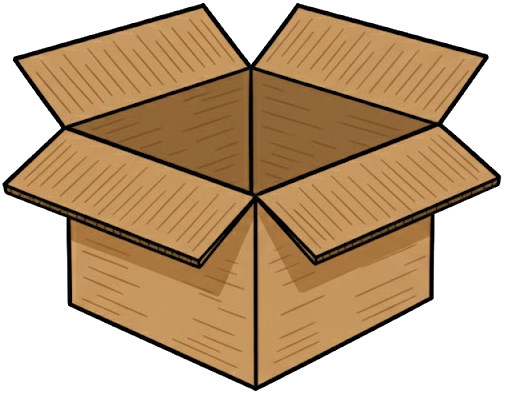
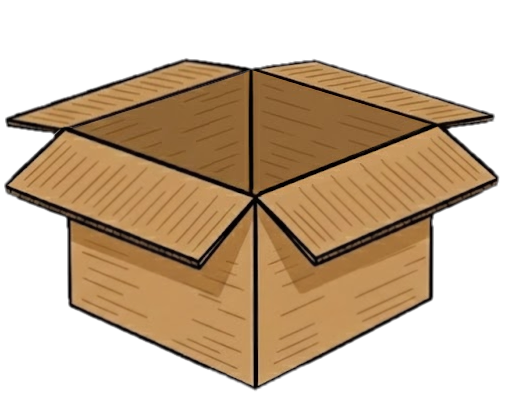
Box texture changed and new credits button

diff --git a/Phaser/src/scenes/Start.js b/Phaser/src/scenes/Start.js
@@ -72,30 +72,33 @@ export class Start extends BaseScene {
         else this.background = this.add.image(width / 2, height / 2, 'background').setDisplaySize(width, height);
 
 
-        const box = this.add.image(400, 950, 'BoxOpen').setOrigin(0.5).setScale(1.5);
+        const box = this.add.image(300, 950, 'BoxOpen').setOrigin(0.5).setScale(1.5).setRotation(0.2);
+
+        // a constant wobbling effect as if the box was floating on space
+        this.tweens.add({
+            targets: box,
+            y: 930,
+            duration: 4000,
+            ease: 'Sine.easeInOut',
+            yoyo: true,
+            loop: -1
+        });
         const kitty = this.add.image(500, 450, 'StartMenuKronos').setOrigin(0.5).setScale(0.9);
 
         this.tweens.add({
             targets: kitty,
-            y: 620,
-            duration: 3000,
+            y: 520,
+            duration: 5000,
             ease: 'Sine.easeInOut',
             yoyo: true,
             loop: -1
         });
 
         const logo = this.add.image(1300, 150, 'logo').setOrigin(0.5);
-        const playButton = this.add.sprite(1150, 900, 'playButton', 0).setInteractive().setOrigin(0.5).setScale(1.4);
+        const playButton = this.add.sprite(1150, 900, 'playButton', 0).setInteractive().setOrigin(0.5).setScale(1.4).setAlpha(0);
 
         //boton de creditos
-        const creditsButton = this.add.text(1150, 750, 'CREDITS',
-            {
-                fontsize: '36px',
-                fill: '#000000',
-                backgroundColor: '#ffffffff',
-                padding: { x: 40, y: 20 }
-            }).setOrigin(0.5)
-            .setInteractive();
+        const creditsButton = this.add.image( width - 150, height - 150, 'creditsButton').setOrigin(0.5).setScale(0.15).setInteractive();
 
 
 
@@ -136,10 +139,24 @@ export class Start extends BaseScene {
         //efecto hover del boton Creditos
         creditsButton.on('pointerover', () => {
             this.sound.play('buttonHover', { volume: 2 * this.playerData.sfxVolume });
-            creditsButton.setStyle({ fill: '#62a6ffff' })
-    
+            this.tweens.add({
+                targets: creditsButton,
+                scale: 0.17,
+                duration: 200,
+                ease: 'Sine.easeInOut',
+                yoyo: false,
+            });
         });
-        creditsButton.on('pointerout', () => creditsButton.setStyle({ fill: '#000000ff' }));
+        creditsButton.on('pointerout', () => {
+            this.tweens.add({
+                targets: creditsButton,
+                scale: 0.15,
+                duration: 200,
+                ease: 'Sine.easeInOut',
+                yoyo: false,
+            });
+           
+        });
 
     
 
@@ -171,12 +188,6 @@ export class Start extends BaseScene {
             loop: -1
         });
 
-        //Logo del equipo en la esquina
-        const teamLogo = this.add.image(width - 100, height - 100, 'teamLogo')
-            .setOrigin(0.5)
-            .setScale(0.15)
-        //.setAlpha(0.9);
-        //.setTint(0xffffffff);
 
 
     }

diff --git a/Phaser/src/scenes/LoadingScene.js b/Phaser/src/scenes/LoadingScene.js
@@ -88,6 +88,7 @@ export class LoadingScene extends Phaser.Scene
         this.load.image('StartMenuKronos', 'Phaser/assets/StartMenu/kittykronos.png')
         this.load.image('BoxOpen', 'Phaser/assets/StartMenu/cardboardbox.png')
         this.load.image('logo', 'Phaser/assets/titlelogo.png');
+        this.load.image('creditsButton', 'Phaser/assets/StartMenu/creditsButton.png');
         this.load.image('teamLogo', 'Phaser/assets/teamLogo.png');
         this.load.spritesheet('playButton', 'Phaser/assets/playButton.png', { frameWidth: 186, frameHeight: 92 });
         this.load.json('playerData', 'Phaser/src/playerData.json');
